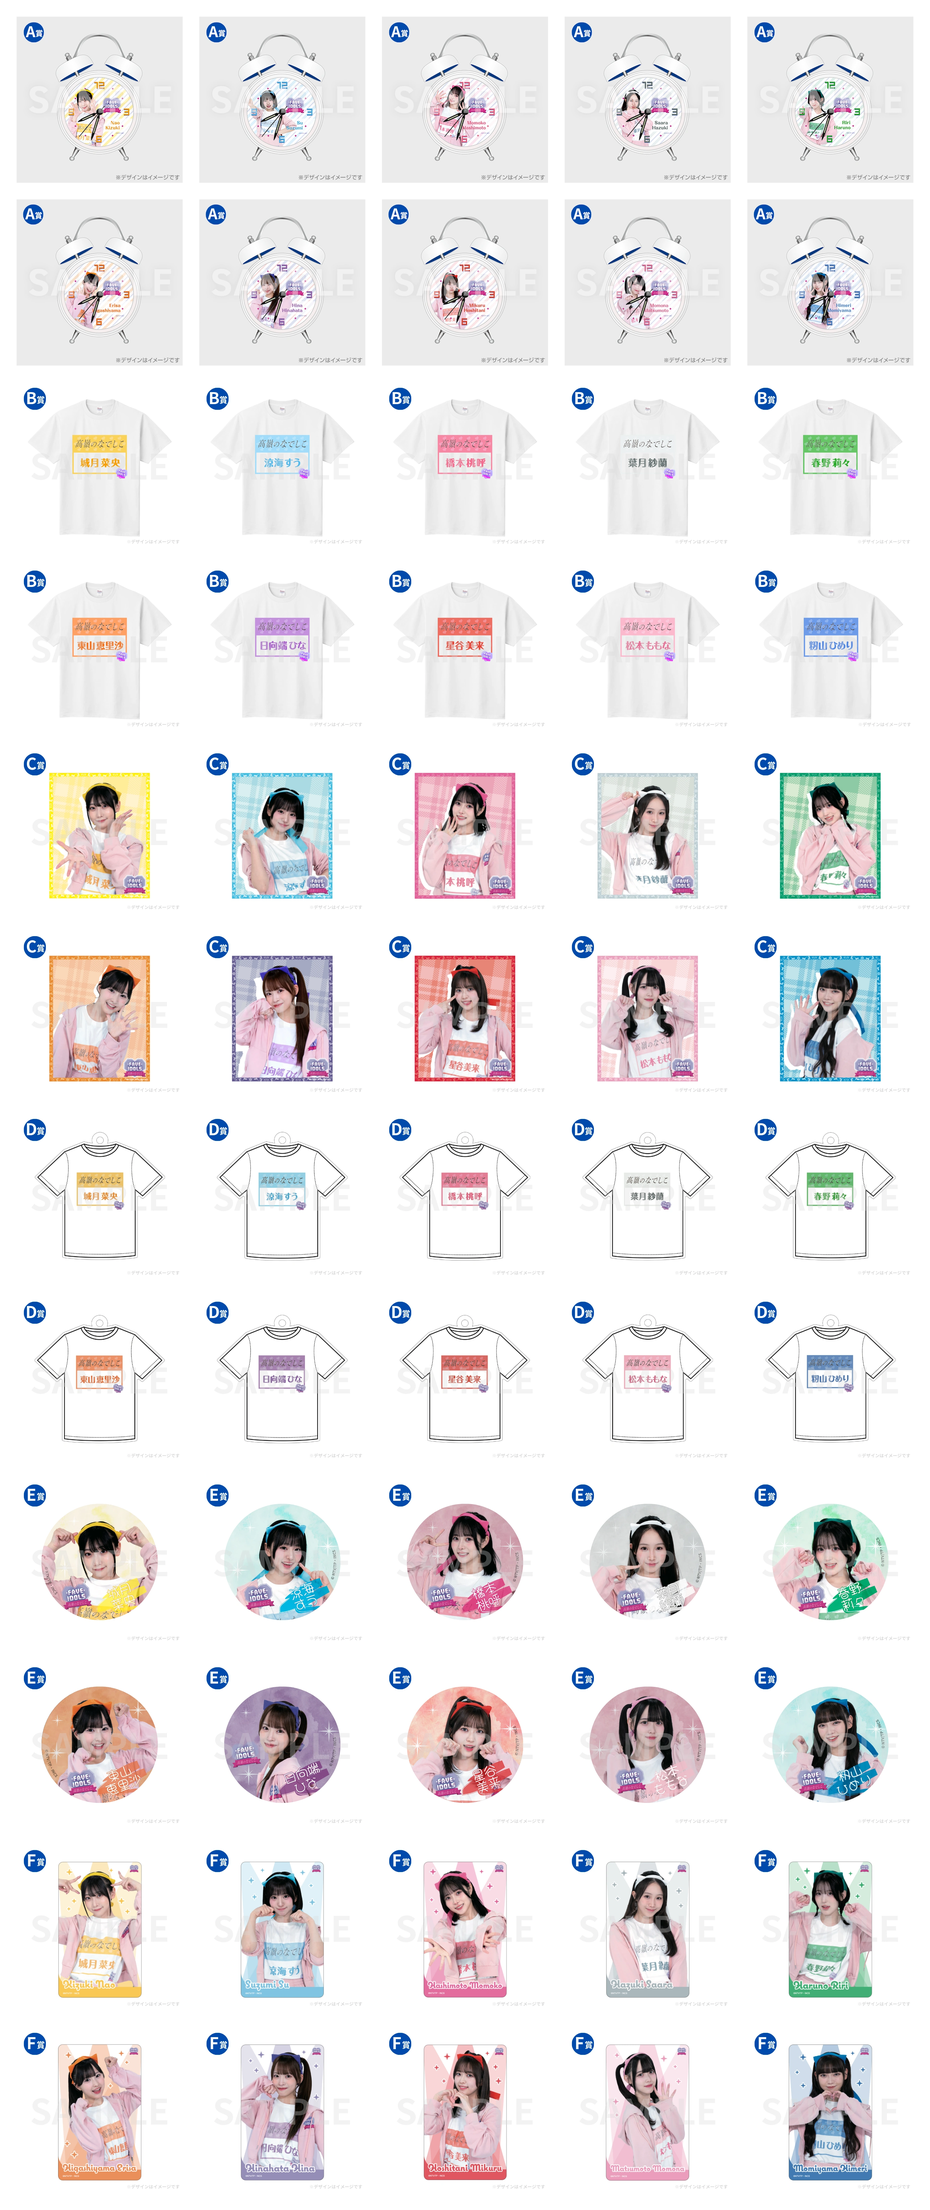
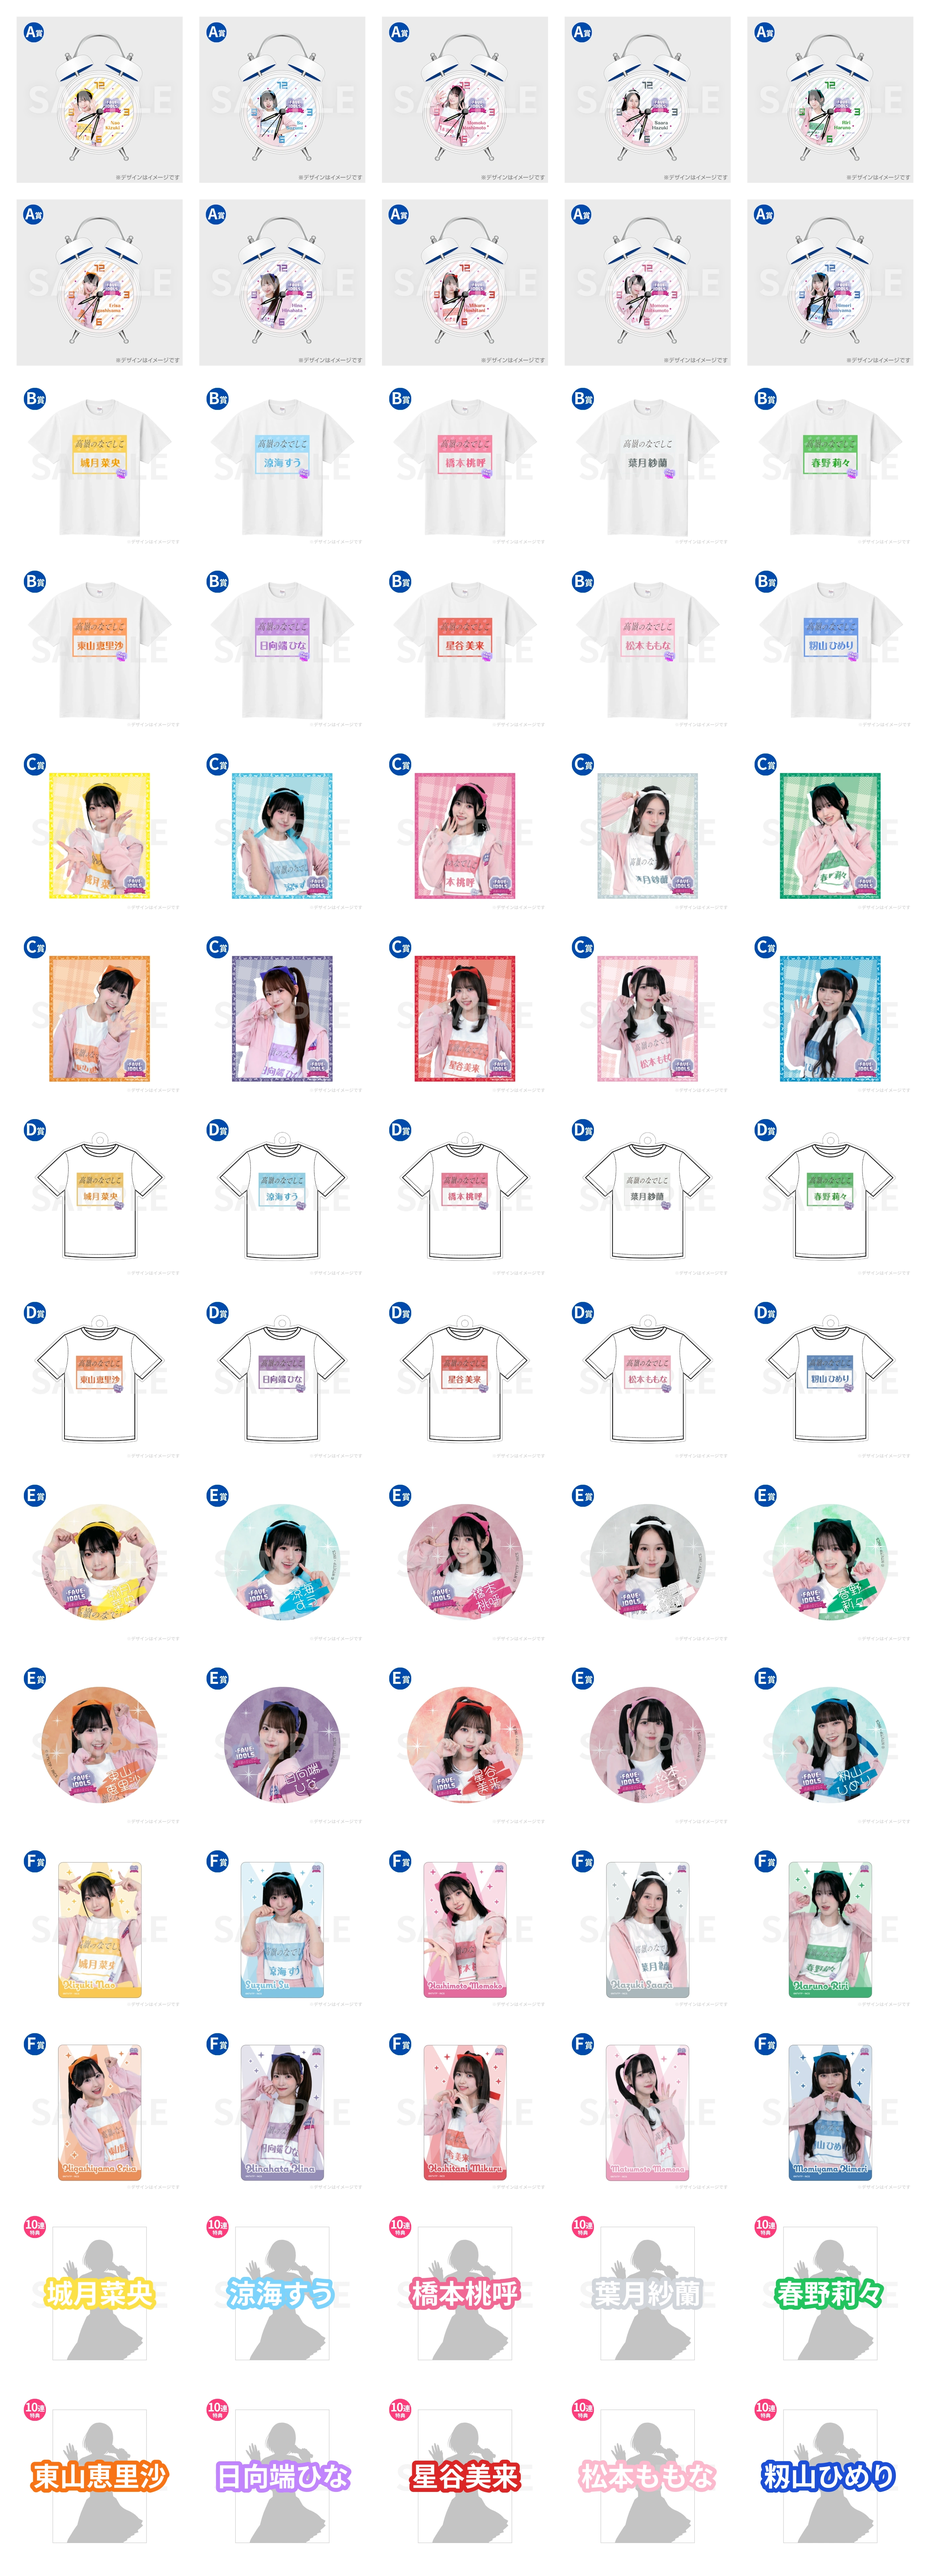
FAVE IDOL オンラインくじ 10連特典を追加。

diff --git a/app/features/products/2025/2025-04-22_『FAVE IDOLS〜今推したい最強アイドル〜』× 『高嶺のなでしこ』番組コラボ オンラインくじ 10連特典.ts b/app/features/products/2025/2025-04-22_『FAVE IDOLS〜今推したい最強アイドル〜』× 『高嶺のなでしこ』番組コラボ オンラインくじ 10連特典.ts
@@ -1,0 +1,39 @@
+import { RandomGoods, TradeTextType } from "~/features/products/product";
+
+export const FAVE_IDOLS_オンラインくじ10連特典: RandomGoods = {
+  id: "FAVE IDOLS オンラインくじ",
+  slug: "FAVE IDOLS オンラインくじ 10連特典",
+  name: "『FAVE IDOLS〜今推したい最強アイドル〜』× 『高嶺のなでしこ』番組コラボ オンラインくじ 10連特典 ポストカード",
+  year: 2025,
+  series: "FAVE IDOLS オンラインくじ",
+  category: "10連特典 ポストカード",
+  tradeText: TradeTextType.GroupByDescription,
+  url: "/takaneko/goods/2025/2025-04-22_『FAVE IDOLS〜今推したい最強アイドル〜』× 『高嶺のなでしこ』番組コラボ オンラインくじ 10連特典.webp",
+  width: 3050,
+  height: 1250,
+  lineup: [
+    { id: 61, name: "城月菜央", description: "10連特典" },
+    { id: 62, name: "涼海すう", description: "10連特典" },
+    { id: 63, name: "橋本桃呼", description: "10連特典" },
+    { id: 64, name: "葉月紗蘭", description: "10連特典" },
+    { id: 65, name: "春野莉々", description: "10連特典" },
+    { id: 66, name: "東山恵里沙", description: "10連特典" },
+    { id: 67, name: "日向端ひな", description: "10連特典" },
+    { id: 68, name: "星谷美来", description: "10連特典" },
+    { id: 69, name: "松本ももな", description: "10連特典" },
+    { id: 70, name: "籾山ひめり", description: "10連特典" },
+  ],
+  withFrame: true,
+  positions: [
+    { id: 61, x: 50, y: 50, width: 500, height: 500 },
+    { id: 62, x: 600, y: 50, width: 500, height: 500 },
+    { id: 63, x: 1150, y: 50, width: 500, height: 500 },
+    { id: 64, x: 1700, y: 50, width: 500, height: 500 },
+    { id: 65, x: 2250, y: 50, width: 500, height: 500 },
+    { id: 66, x: 50, y: 600, width: 500, height: 500 },
+    { id: 67, x: 600, y: 600, width: 500, height: 500 },
+    { id: 68, x: 1150, y: 600, width: 500, height: 500 },
+    { id: 69, x: 1700, y: 600, width: 500, height: 500 },
+    { id: 70, x: 2250, y: 600, width: 500, height: 500 },
+  ],
+};

diff --git a/app/features/products/2025/2025-04-22_『FAVE IDOLS〜今推したい最強アイドル〜』× 『高嶺のなでしこ』番組コラボ オンラインくじ.ts b/app/features/products/2025/2025-04-22_『FAVE IDOLS〜今推したい最強アイドル〜』× 『高嶺のなでしこ』番組コラボ オンラインくじ.ts
@@ -72,6 +72,16 @@ export const FAVE_IDOLS_オンラインくじ: RandomGoods = {
     { id: 58, name: "星谷美来", description: "F賞" },
     { id: 59, name: "松本ももな", description: "F賞" },
     { id: 60, name: "籾山ひめり", description: "F賞" },
+    { id: 61, name: "城月菜央", description: "10連特典" },
+    { id: 62, name: "涼海すう", description: "10連特典" },
+    { id: 63, name: "橋本桃呼", description: "10連特典" },
+    { id: 64, name: "葉月紗蘭", description: "10連特典" },
+    { id: 65, name: "春野莉々", description: "10連特典" },
+    { id: 66, name: "東山恵里沙", description: "10連特典" },
+    { id: 67, name: "日向端ひな", description: "10連特典" },
+    { id: 68, name: "星谷美来", description: "10連特典" },
+    { id: 69, name: "松本ももな", description: "10連特典" },
+    { id: 70, name: "籾山ひめり", description: "10連特典" },
   ],
   withFrame: true,
   positions: [
@@ -135,5 +145,15 @@ export const FAVE_IDOLS_オンラインくじ: RandomGoods = {
     { id: 58, x: 1150, y: 6100, width: 500, height: 500 },
     { id: 59, x: 1700, y: 6100, width: 500, height: 500 },
     { id: 60, x: 2250, y: 6100, width: 500, height: 500 },
+    { id: 61, x: 50, y: 6650, width: 500, height: 500 },
+    { id: 62, x: 600, y: 6650, width: 500, height: 500 },
+    { id: 63, x: 1150, y: 6650, width: 500, height: 500 },
+    { id: 64, x: 1700, y: 6650, width: 500, height: 500 },
+    { id: 65, x: 2250, y: 6650, width: 500, height: 500 },
+    { id: 66, x: 50, y: 7200, width: 500, height: 500 },
+    { id: 67, x: 600, y: 7200, width: 500, height: 500 },
+    { id: 68, x: 1150, y: 7200, width: 500, height: 500 },
+    { id: 69, x: 1700, y: 7200, width: 500, height: 500 },
+    { id: 70, x: 2250, y: 7200, width: 500, height: 500 },
   ],
 };
